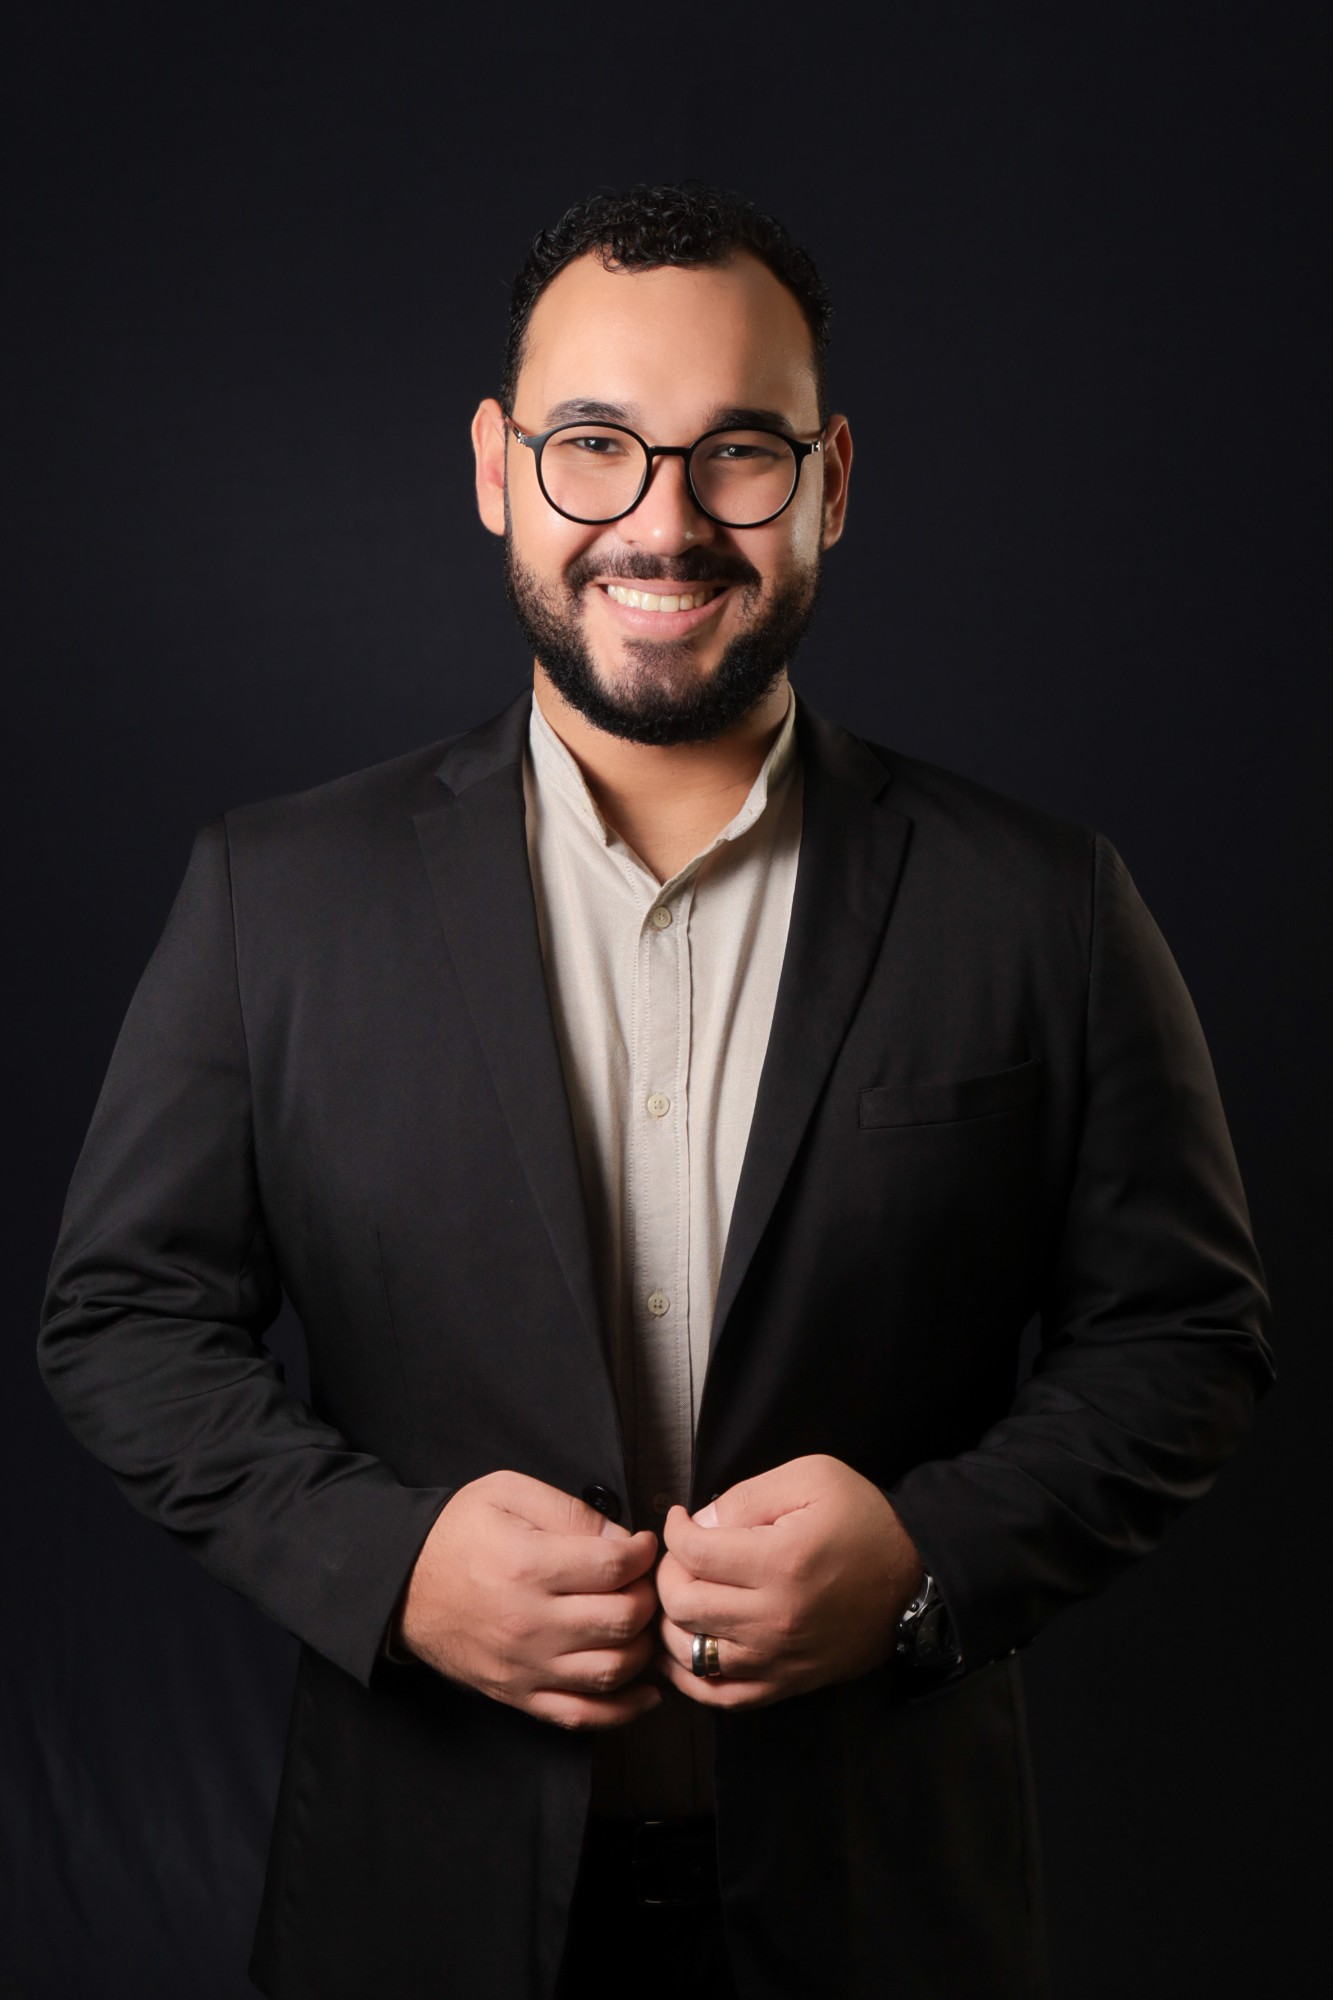
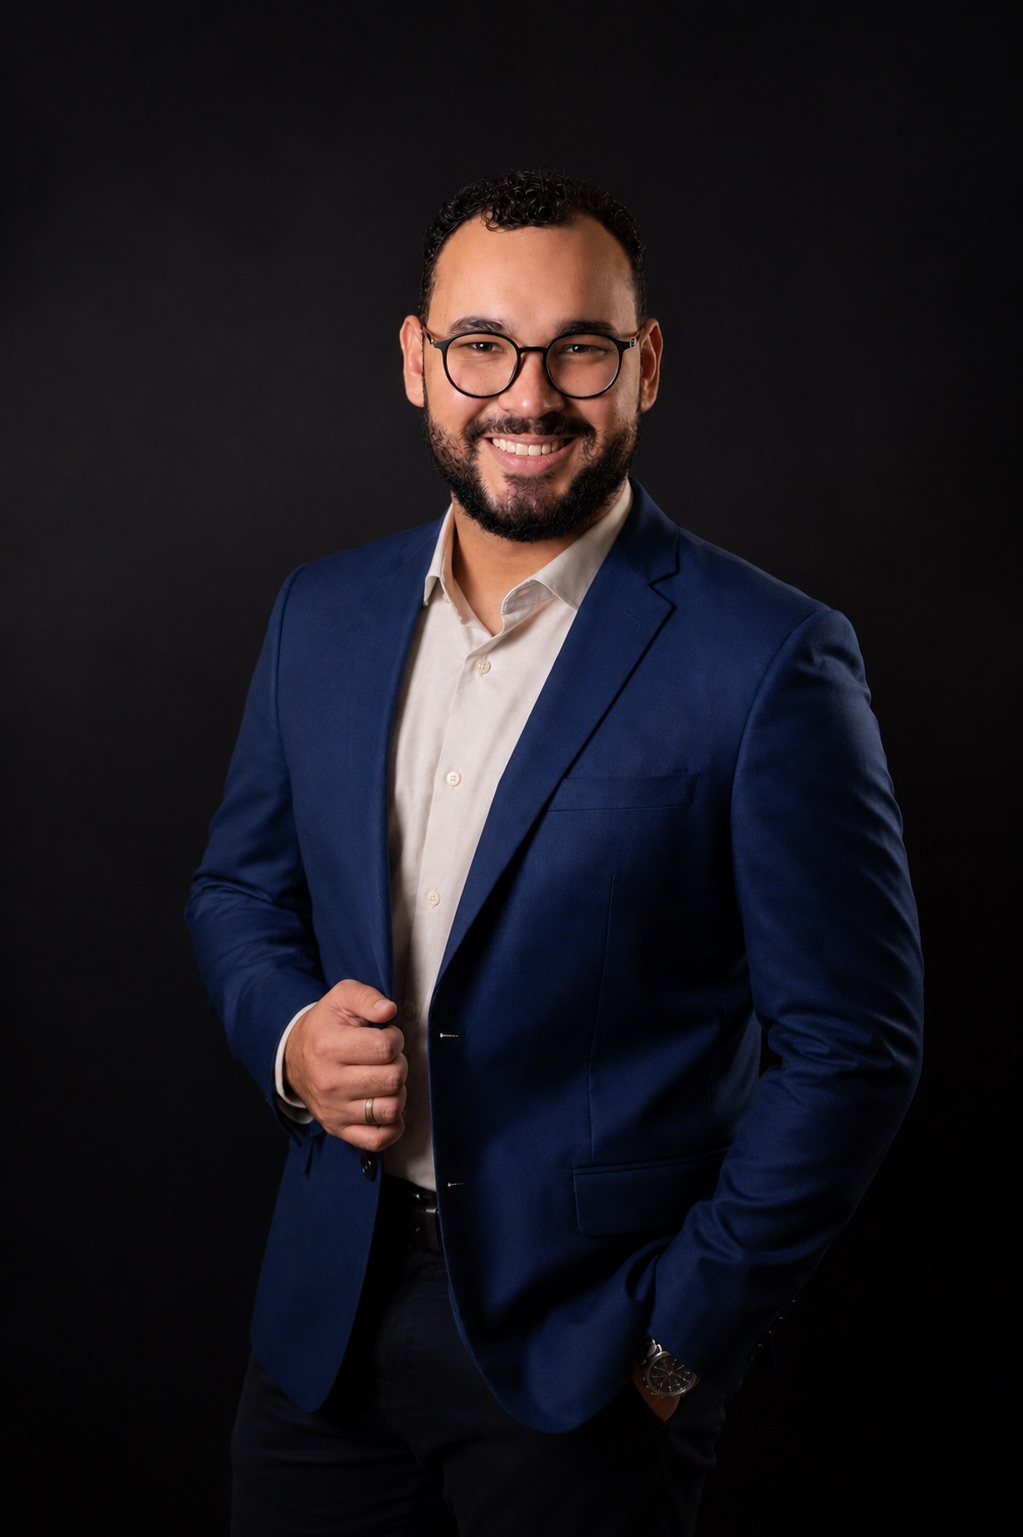
Atualiza foto do Dr. Arthur Silva na página da mentoria
Substitui foto.jpg pela nova imagem e ajusta o enquadramento do
recorte circular da bio de "center top" para "center 18%" — a foto
nova tem proporção e posicionamento do rosto diferentes da anterior,
e o recorte antigo deixava o rosto pequeno e deslocado para cima.

diff --git a/mentoria.html b/mentoria.html
@@ -686,7 +686,7 @@
     }
     .bio-photo-frame img {
       width: 100%; height: 100%; border-radius: 50%;
-      object-fit: cover; object-position: center top; display: block;
+      object-fit: cover; object-position: center 18%; display: block;
       box-shadow: 0 0 52px rgba(201,160,70,0.18), 0 8px 32px rgba(0,0,0,0.5);
     }
     .bio-id { text-align: center; }
